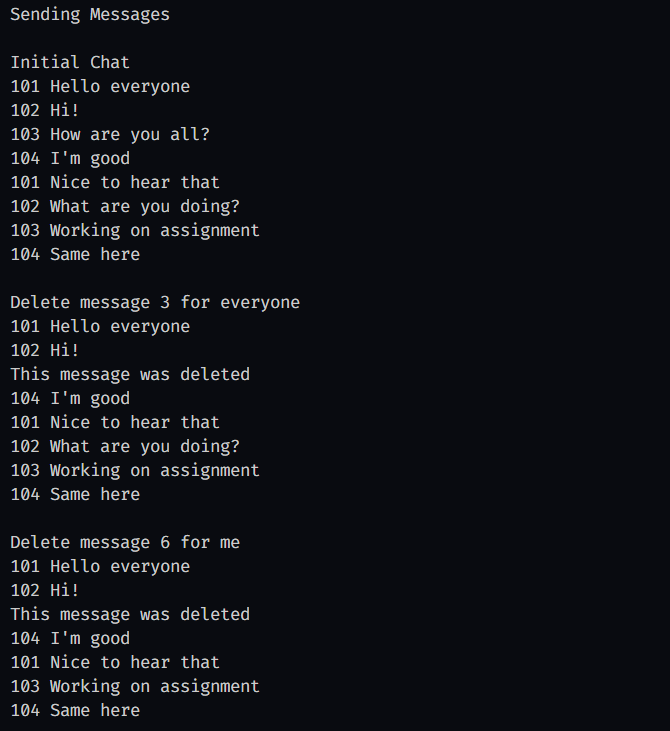
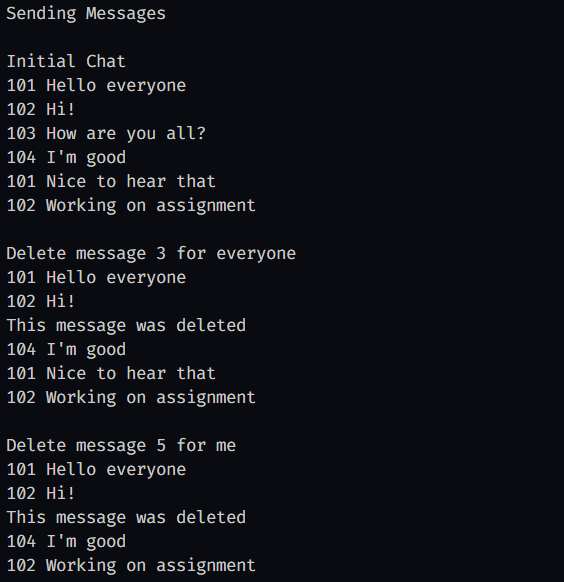
Task1 searchPlayer algorithm optimised to O(lg n) and updated test cases sshots

Changed region(s): [[0.0, 0.4021, 0.5426, 0.9897], [0.0, 0.0619, 0.4521, 0.3711], [0.0, 0.0, 0.3014, 0.0619]]

diff --git a/other/dsa_assignment_2/task1/task1.cpp b/other/dsa_assignment_2/task1/task1.cpp
@@ -104,21 +104,33 @@ public:
     }
 
     /**
-     * Searches a player using Player's ID
-     * @param id ID of player
-     * @returns Pointer to the node whose ID is `id`
-     * @note Since Player ID is unique, searching is done using the ID attribute
+     * Searches a player using Player's score and timestamp
+     * @param score Score of player
+     * @param time Timestamp of player
+     * @returns Pointer to the node of Player
      */
-    Node *searchPlayer(int id)
+    Node *searchPlayer(int score, int time)
     {
-        Node *curr = header->next[0];
-        while (curr != nullptr)
+        Node *curr = header;
+
+        Player key;
+        key.pscore = score;
+        key.time = time;
+
+        for (int i = curr_level; i >= 0; i--)
         {
-            if (curr->pdata.pid == id)
+            while (curr->next[i] != nullptr &&
+                   is_p1_greater_p2(curr->next[i]->pdata, key))
             {
-                return curr;
+                curr = curr->next[i];
             }
-            curr = curr->next[0];
+        }
+
+        curr = curr->next[0];
+
+        if (curr != nullptr && curr->pdata.pscore == score && curr->pdata.time == time)
+        {
+            return curr;
         }
 
         return nullptr;
@@ -330,11 +342,11 @@ int main()
     cout << "\nSkip List Structure:\n";
     l.displaySkipListStructure();
 
-    cout << "\nSearching Player with ID 103:\n";
-    Node *found = l.searchPlayer(103);
+    cout << "\nSearching Player with score 920 and time 30:\n";
+    Node *found = l.searchPlayer(920, 30);  
 
     if (found != nullptr)
-        cout << "Player Found. Score = " << found->pdata.pscore << " Name= " << found->pdata.pname << endl;
+        cout << "Player Found. ID = " << found->pdata.pid << " Name= " << found->pdata.pname << endl;
     else
         cout << "Player not found\n";
 
@@ -386,11 +398,11 @@ int main()
     cout << "\nSkip List Structure:\n";
     l2.displaySkipListStructure();
 
-    cout << "\nSearching Player with ID 203:\n";
-    Node *found2 = l2.searchPlayer(203);
+    cout << "\nSearching Player with score 910 and time 10:\n";
+    Node *found2 = l2.searchPlayer(910, 10);
 
     if (found2 != nullptr)
-        cout << "Player Found. Score = " << found2->pdata.pscore << " Name= " << found2->pdata.pname << endl;
+        cout << "Player Found. ID = " << found2->pdata.pid << " Name= " << found2->pdata.pname << endl;
     else
         cout << "Player not found\n";
 

diff --git a/other/dsa_assignment_2/task2/task2.cpp b/other/dsa_assignment_2/task2/task2.cpp
@@ -153,7 +153,7 @@ public:
      * @param time Timestamp noted
      * @note This Algorithm works by inserting the new node at tail of the DLL
      */
-    void sendMessage(int id, int sender, string &text, int time)
+    void sendMessage(int id, int sender, string text, int time)
     {
         Msg *n = new Msg(id, sender, text, time);
         if (head == nullptr)
@@ -297,6 +297,7 @@ int main()
     // Test Case 2
     Messager chat2;
 
+    cout << "\n------------------------------------------------\n";
     cout << "Sending Messages\n";
 
     chat2.sendMessage(1, 101, "Hello everyone", 10);
@@ -304,9 +305,7 @@ int main()
     chat2.sendMessage(3, 103, "How are you all?", 30);
     chat2.sendMessage(4, 104, "I'm good", 40);
     chat2.sendMessage(5, 101, "Nice to hear that", 50);
-    chat2.sendMessage(6, 102, "What are you doing?", 60);
-    chat2.sendMessage(7, 103, "Working on assignment", 70);
-    chat2.sendMessage(8, 104, "Same here", 80);
+    chat2.sendMessage(6, 102, "Working on assignment", 60);
 
     cout << "\nInitial Chat\n";
     chat2.displayChat();
@@ -315,32 +314,16 @@ int main()
     chat2.deleteForEveryone(3, 100);
     chat2.displayChat();
 
-    cout << "\nDelete message 6 for me\n";
-    chat2.deleteForMe(6);
-    chat2.displayChat();
-
-    cout << "\nDelete message 7 for everyone\n";
-    chat2.deleteForEveryone(7, 150);
+    cout << "\nDelete message 5 for me\n";
+    chat2.deleteForMe(5);
     chat2.displayChat();
 
     cout << "\nUndo last delete\n";
-    chat2.undoLastDelete();
-    chat2.displayChat();
-
-    cout << "\nUndo again\n";
     chat2.undoLastDelete();
     chat2.displayChat();
 
     cout << "\nAttempt delete after time limit (message 1)\n";
     chat2.deleteForEveryone(1, 400);
-    chat2.displayChat();
-
-    cout << "\nDelete message 8 for me\n";
-    chat2.deleteForMe(8);
-    chat2.displayChat();
-
-    cout << "\nUndo last delete\n";
-    chat2.undoLastDelete();
     chat2.displayChat();
 
     return 0;
